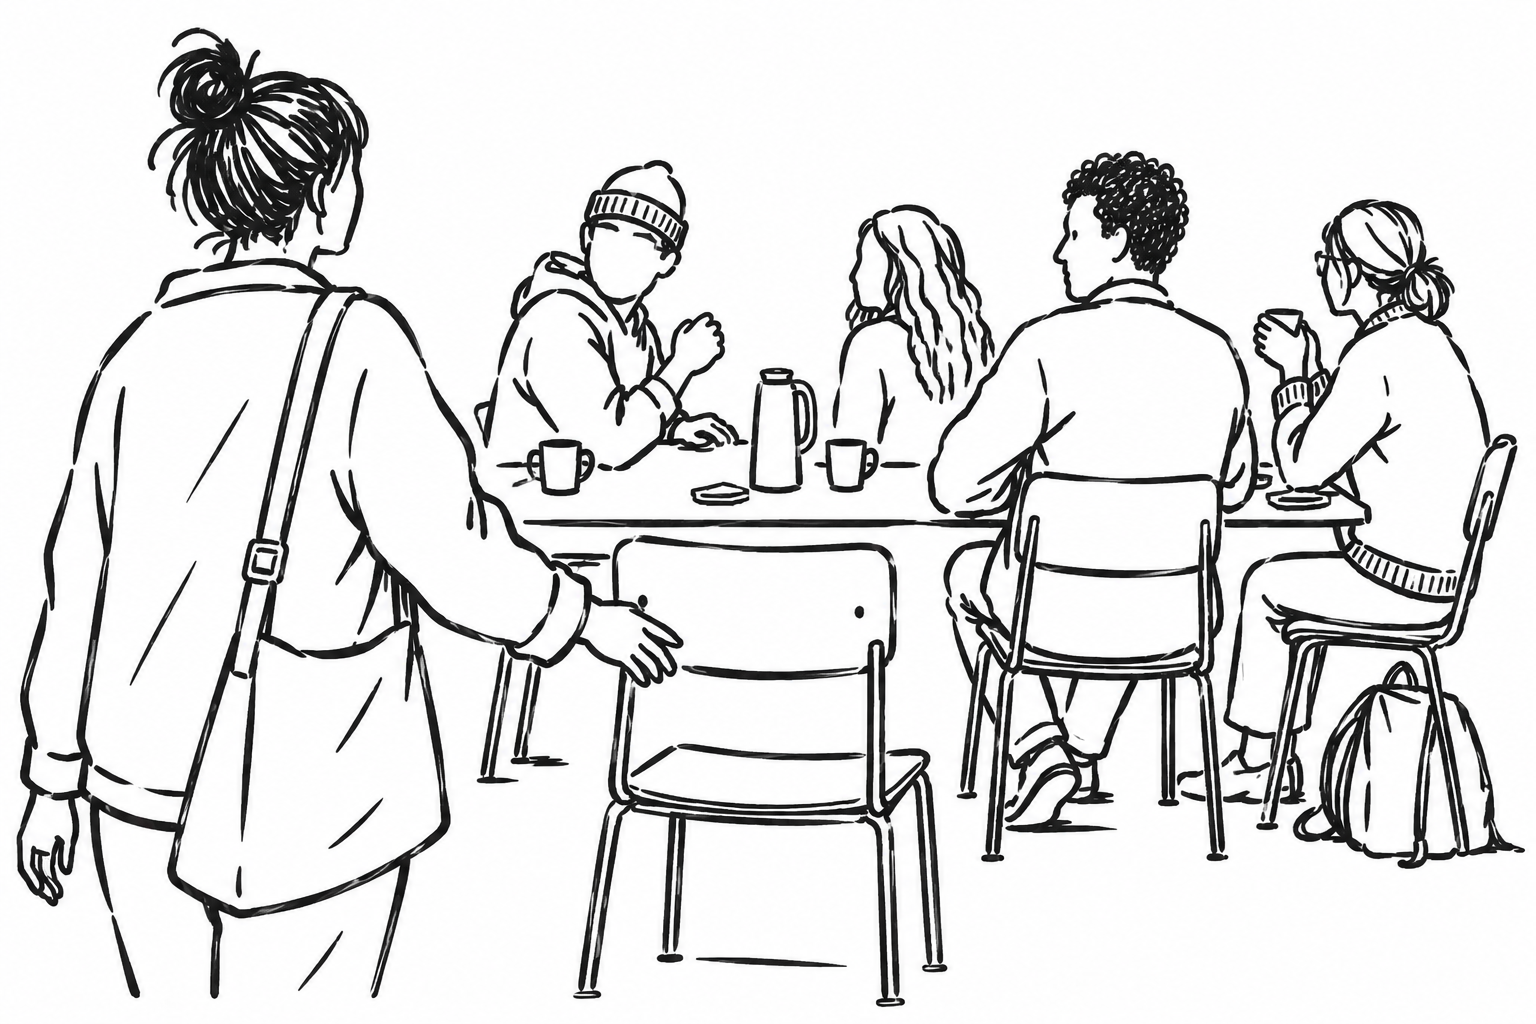
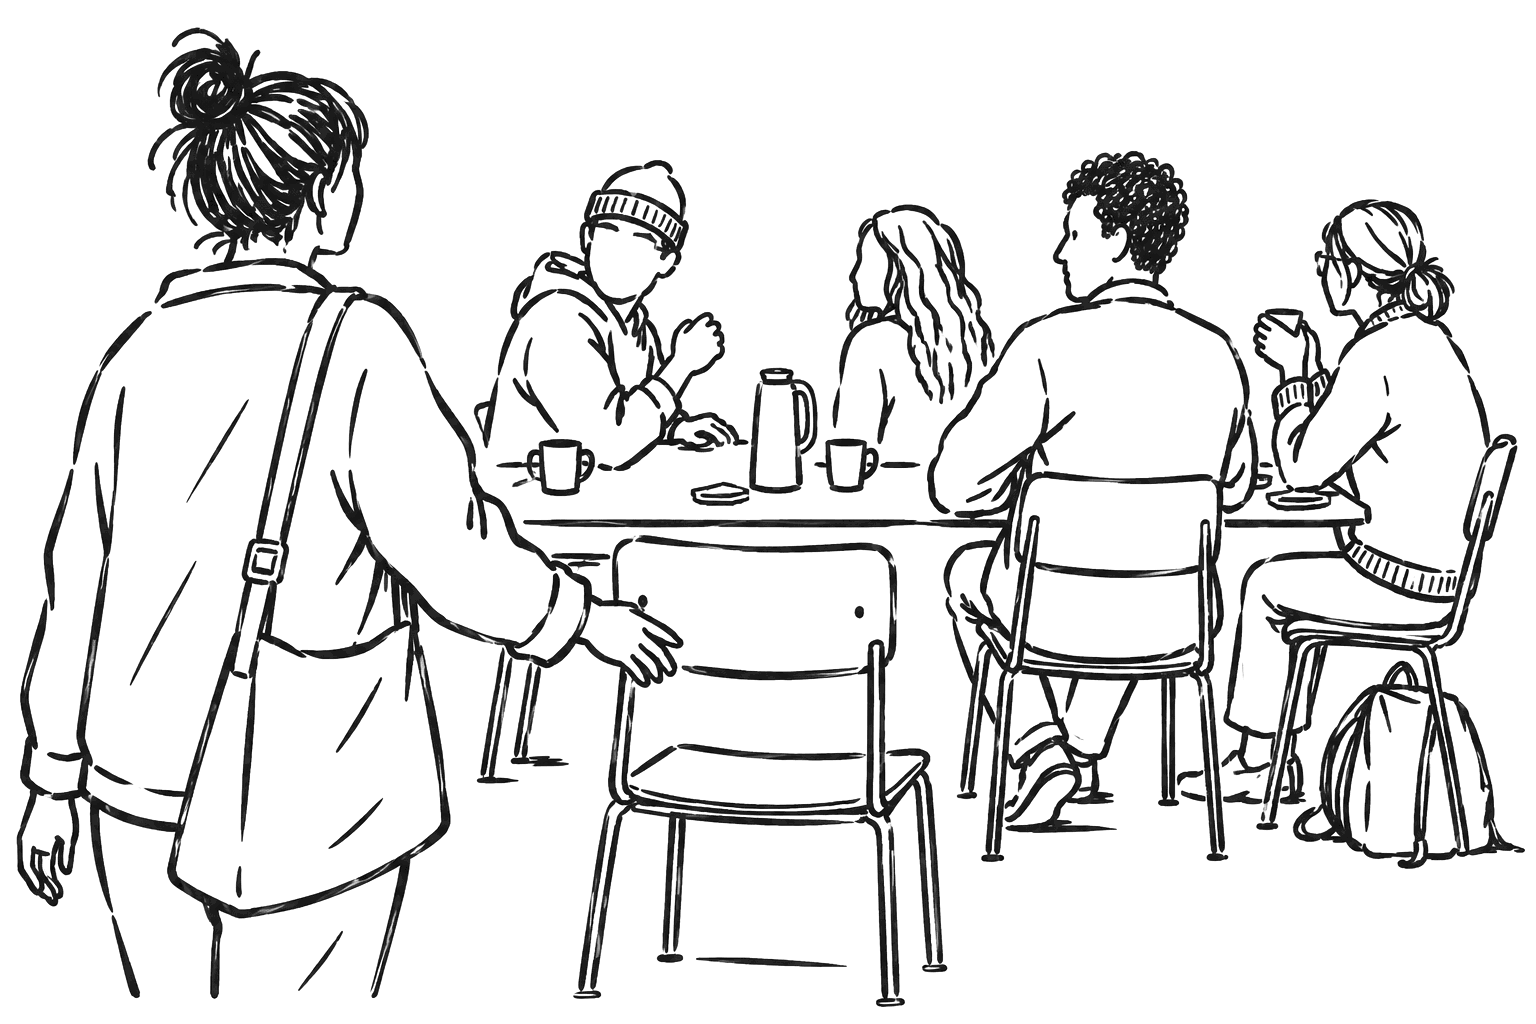
Drop in the L1 placeholder illustration; generate the social preview
Trey's L1 sketch (four at the table, one arriving, empty chair
nearest the viewer) processed for the site: white background
converted to alpha with black strokes so it sits directly on the
ground color, low-alpha paper residue clamped, palette-quantized
1.6MB -> ~300KB. Dark mode gets it as white-on-dark via a CSS invert
on figure.plate img.ink. The homepage placeholder box and its ph-l1
rule come out; width/height attributes prevent layout shift.

Also generates /img/social-preview.png (1200x630, L1 fit on white),
fixing the og:image reference that has 404'd site-wide since launch.
Both are placeholders pending final art per img/shot-list.md.

diff --git a/index.html b/index.html
@@ -10,7 +10,7 @@
 <meta property="og:description" content="Pull up a seat for the most decent conversation you'll have all week. Wednesdays, 7:15 a.m., Greensboro. Since 2015.">
 <meta property="og:type" content="website">
 <meta property="og:url" content="https://adecentconversation.com/">
-<!-- F2 from the shot list: L1 cropped to 1200x630, exported as PNG -->
+<!-- F2: L1 placeholder fit to 1200x630 on white; regenerate when final L1 lands -->
 <meta property="og:image" content="/img/social-preview.png">
 
 <!--
@@ -23,8 +23,8 @@
   [x] Web3Forms access key — form moved to /contact, key set there
   [x] /principles page exists (linked from principles section + footer)
   [x] /history page exists (linked from footer)
-  [ ] Illustrations dropped in: L1, L2, L3, L5 (see shot list)
-  [ ] F1 favicon + F2 social preview generated
+  [~] Illustrations: L1 placeholder PNG in; L2, L3, L5 pending (see img/shot-list.md)
+  [ ] F1 favicon pending; F2 social preview generated from L1
   [ ] Domain registration access shared with Ryan
 
   CONSENT (all now relevant to /history, not this page)
@@ -254,6 +254,11 @@
 
   figure.plate img { display: block; width: 100%; height: auto; }
 
+  /* Monochrome ink placeholder: flip black strokes white in dark mode */
+  @media (prefers-color-scheme: dark) {
+    figure.plate img.ink { filter: invert(1); }
+  }
+
   /* Placeholder box — delete each as the real SVG lands */
   .ph {
     display: flex;
@@ -279,7 +284,6 @@
 
   .ph span { max-width: 34ch; }
 
-  .ph-l1 { aspect-ratio: 16 / 7; }
   .ph-l2 { aspect-ratio: 1 / 1; }
   .ph-l3 { aspect-ratio: 5 / 1; }
   .ph-l5 { aspect-ratio: 2 / 3; }
@@ -437,11 +441,9 @@
     </p>
 
     <figure class="plate">
-      <!-- L1 — replace with: <img src="/img/L1.svg" alt="Four people talking around a table, with one chair pulled out and empty."> -->
-      <div class="ph ph-l1" role="img" aria-label="Illustration: four people talking around a table with one chair pulled out and empty.">
-        <b>L1 — THE EMPTY CHAIR</b>
-        <span>Three or four figures mid-conversation, seen from behind. One seat pulled slightly out and unfilled, nearest the viewer. 16:7</span>
-      </div>
+      <!-- L1 placeholder PNG (3:2; final spec is 16:7 SVG — see img/shot-list.md) -->
+      <img class="ink" src="/img/L1.png" width="1536" height="1024"
+        alt="Four people mid-conversation around a table; a fifth arriving, hand on an empty chair pulled out nearest the viewer.">
     </figure>
   </section>
 
